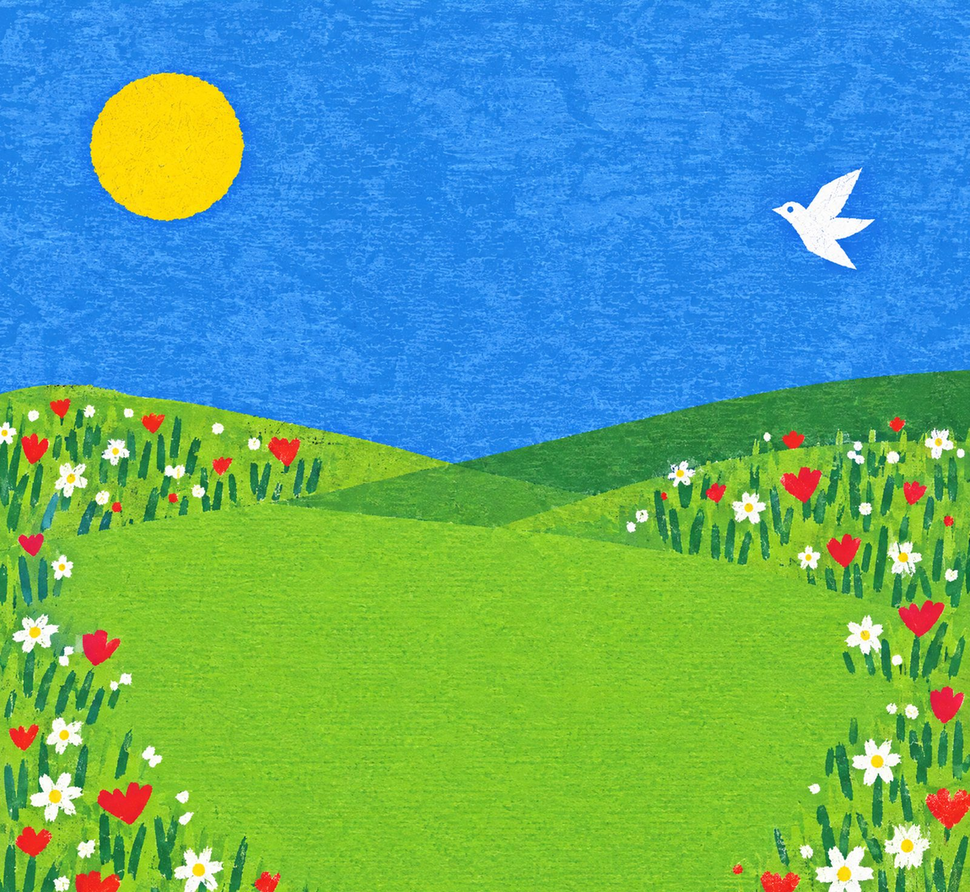
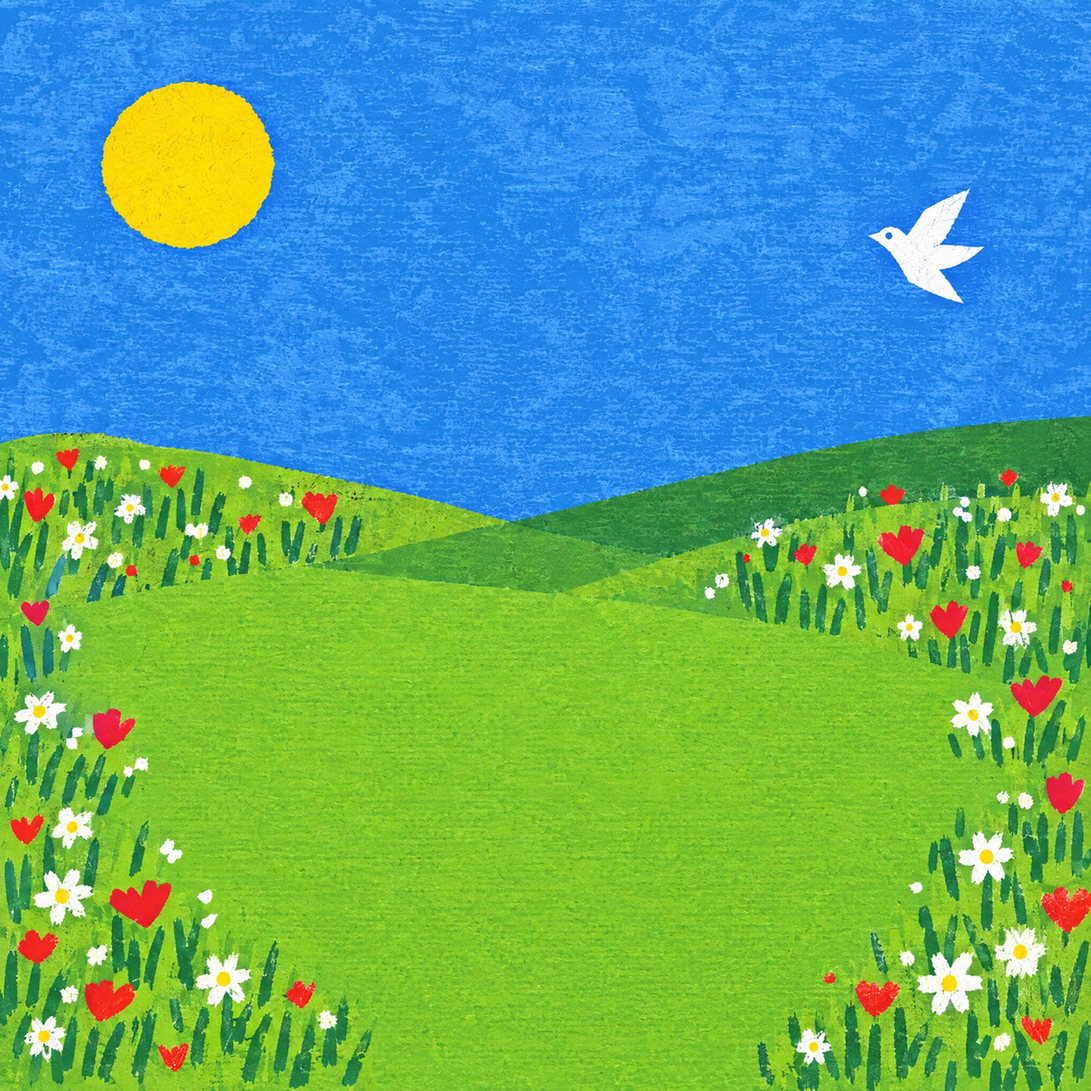
Site: the app's meadow again, revealed as you scroll

diff --git a/index.html b/index.html
@@ -34,10 +34,12 @@
   /* the scene fades into a calm wash so the page stays readable all the way down */
   /* the scene sits behind everything; the wash over it thins as you scroll,
      so more of the artwork comes through the further down you go */
-  /* the tall scene, panned by scroll: sky at the top of the page, the wheat
-     field in the middle, the bakery window by the end */
-  body::before { content: ""; position: fixed; inset: 0; z-index: -2;
-    background: url(/img/ground-tall.jpg) center calc(var(--pan, 0) * 1%) / cover no-repeat; }
+  /* the app's own meadow, held a good deal taller than the window and slid
+     upwards as the page scrolls, so more of the same picture keeps coming
+     into view: the sky first, then the hills, then the flowers */
+  body::before { content: ""; position: fixed; left: 0; right: 0; top: 0; height: 176vh; z-index: -2;
+    background: url(/img/ground.jpg) center top / cover no-repeat;
+    transform: translateY(calc(var(--pan, 0) * -0.76vh)); will-change: transform; }
   body::after { content: ""; position: fixed; inset: 0; z-index: -1; pointer-events: none;
     background: #fbfdff; opacity: var(--wash, .40); transition: opacity .18s linear; }
   h1, h2, h3, .display { font-family: "Bricolage Grotesque", Inter, sans-serif; font-weight: 800; letter-spacing: -.01em; line-height: 1; font-variation-settings: "opsz" 96; }
